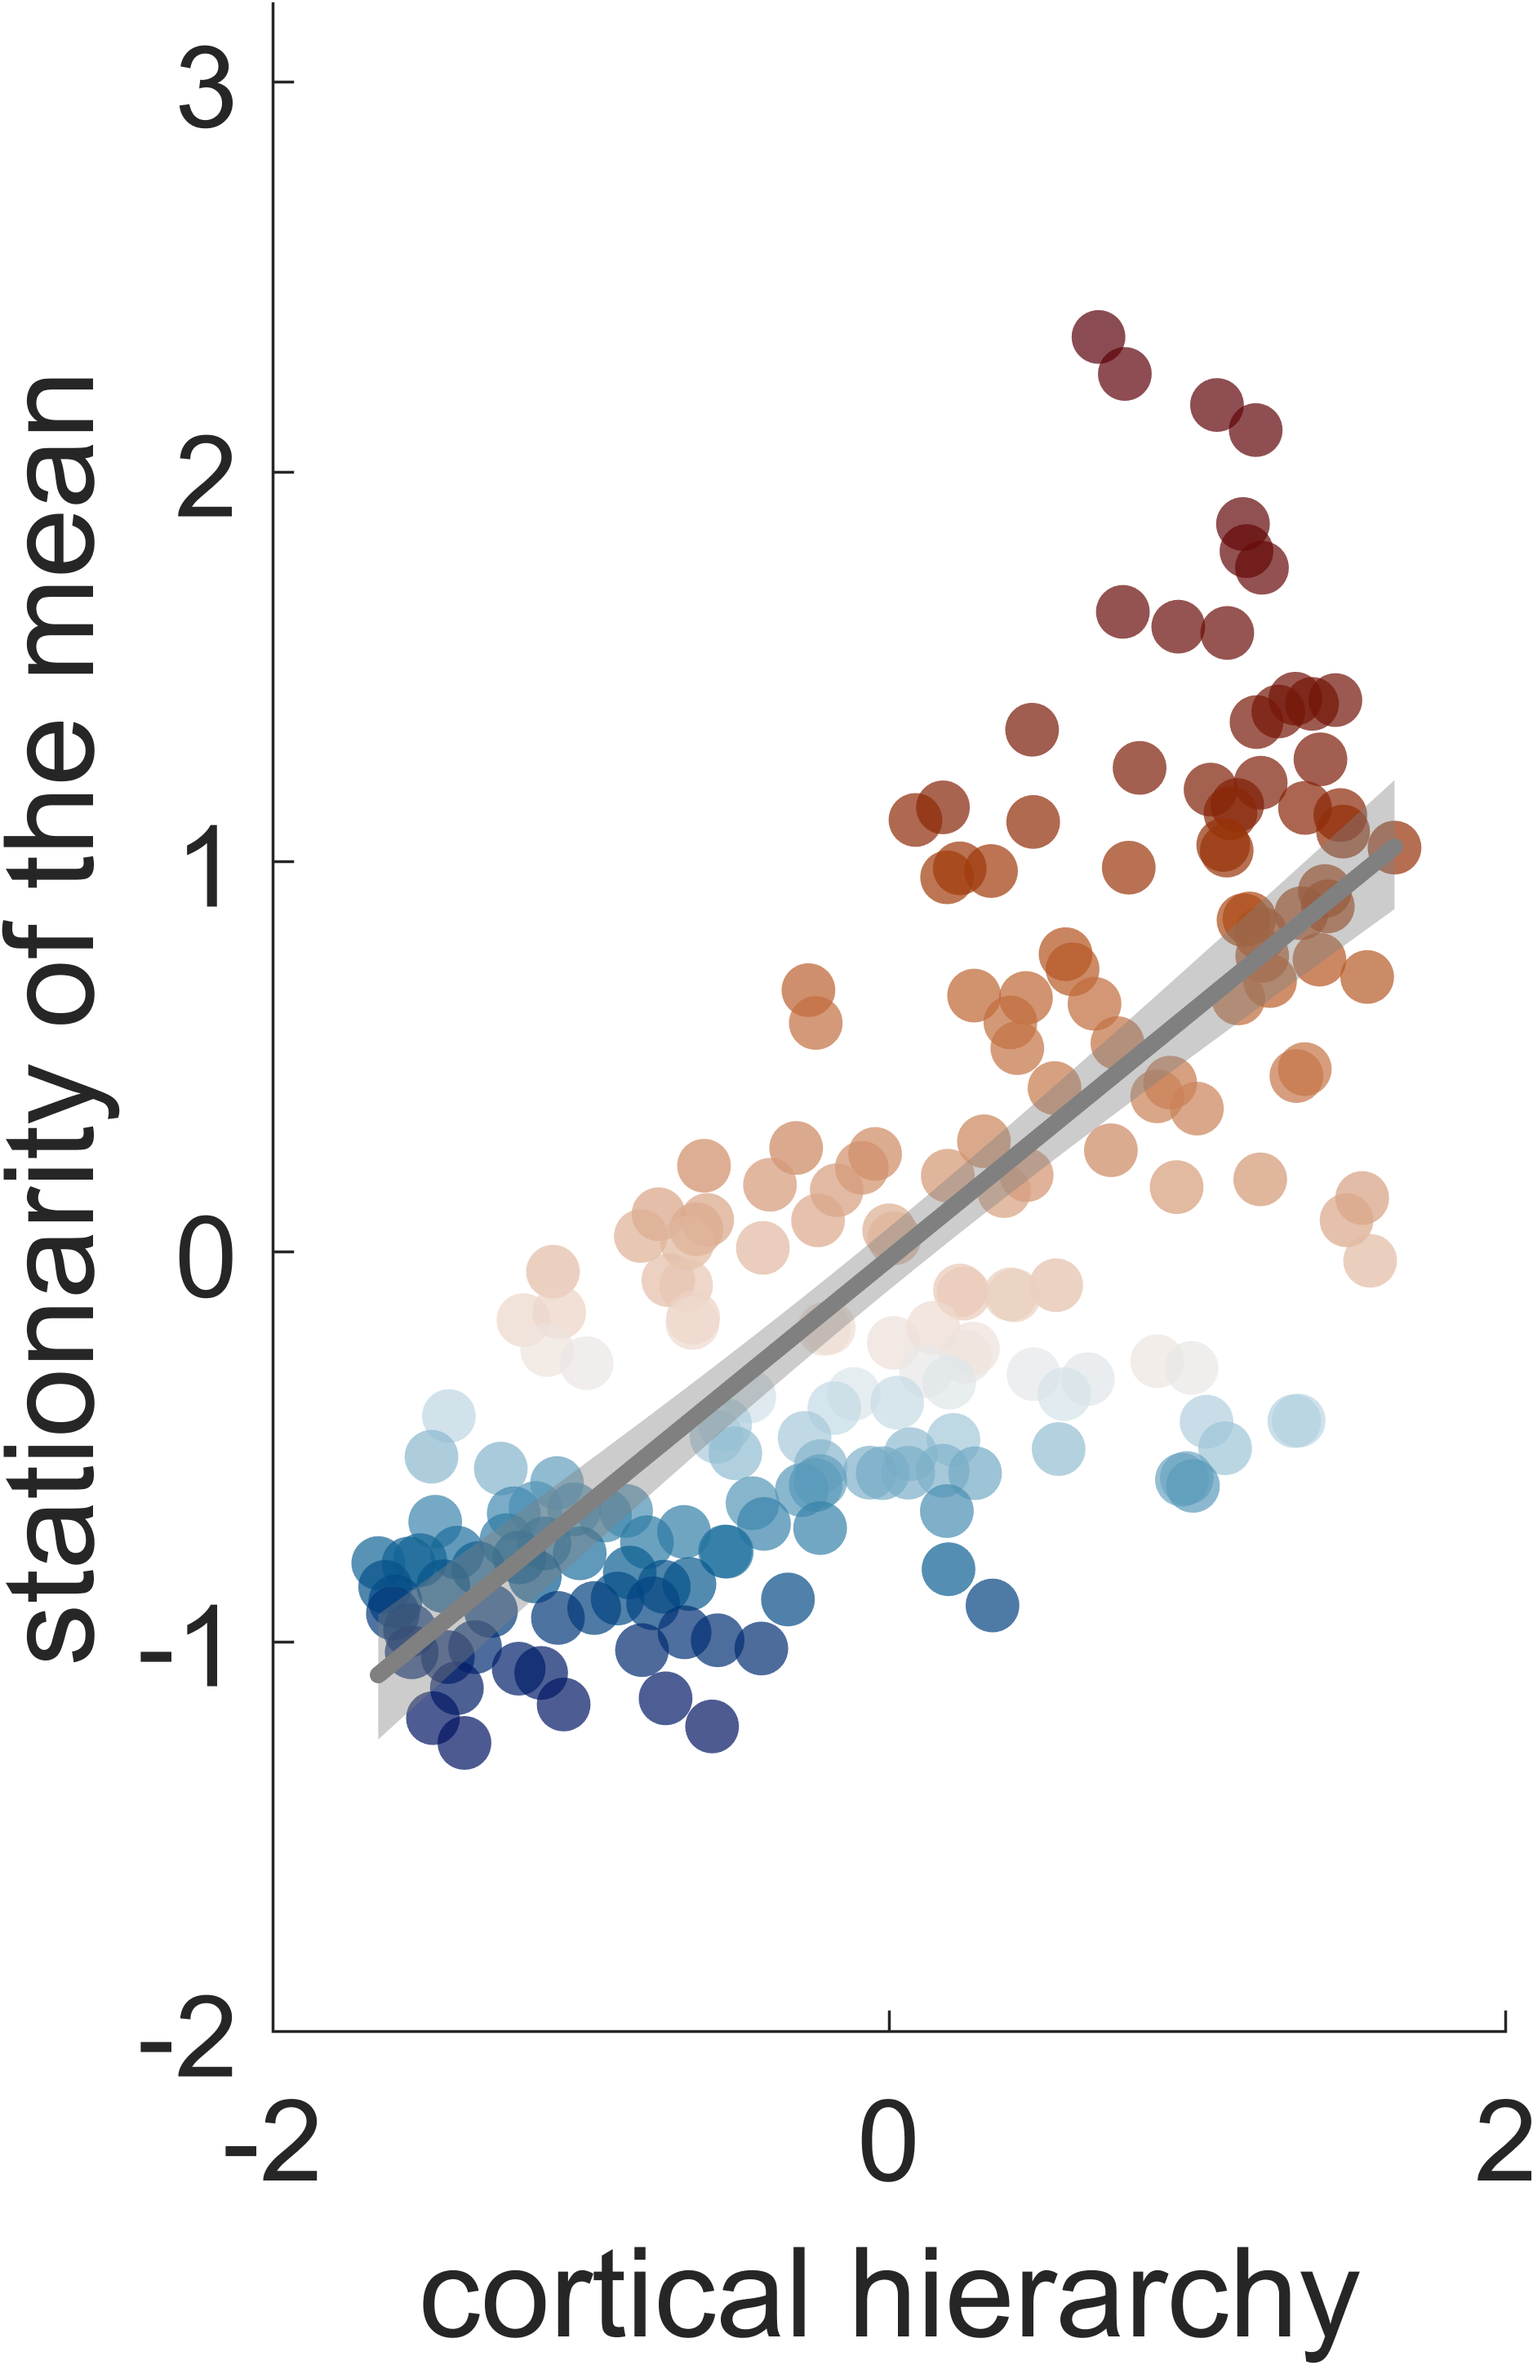
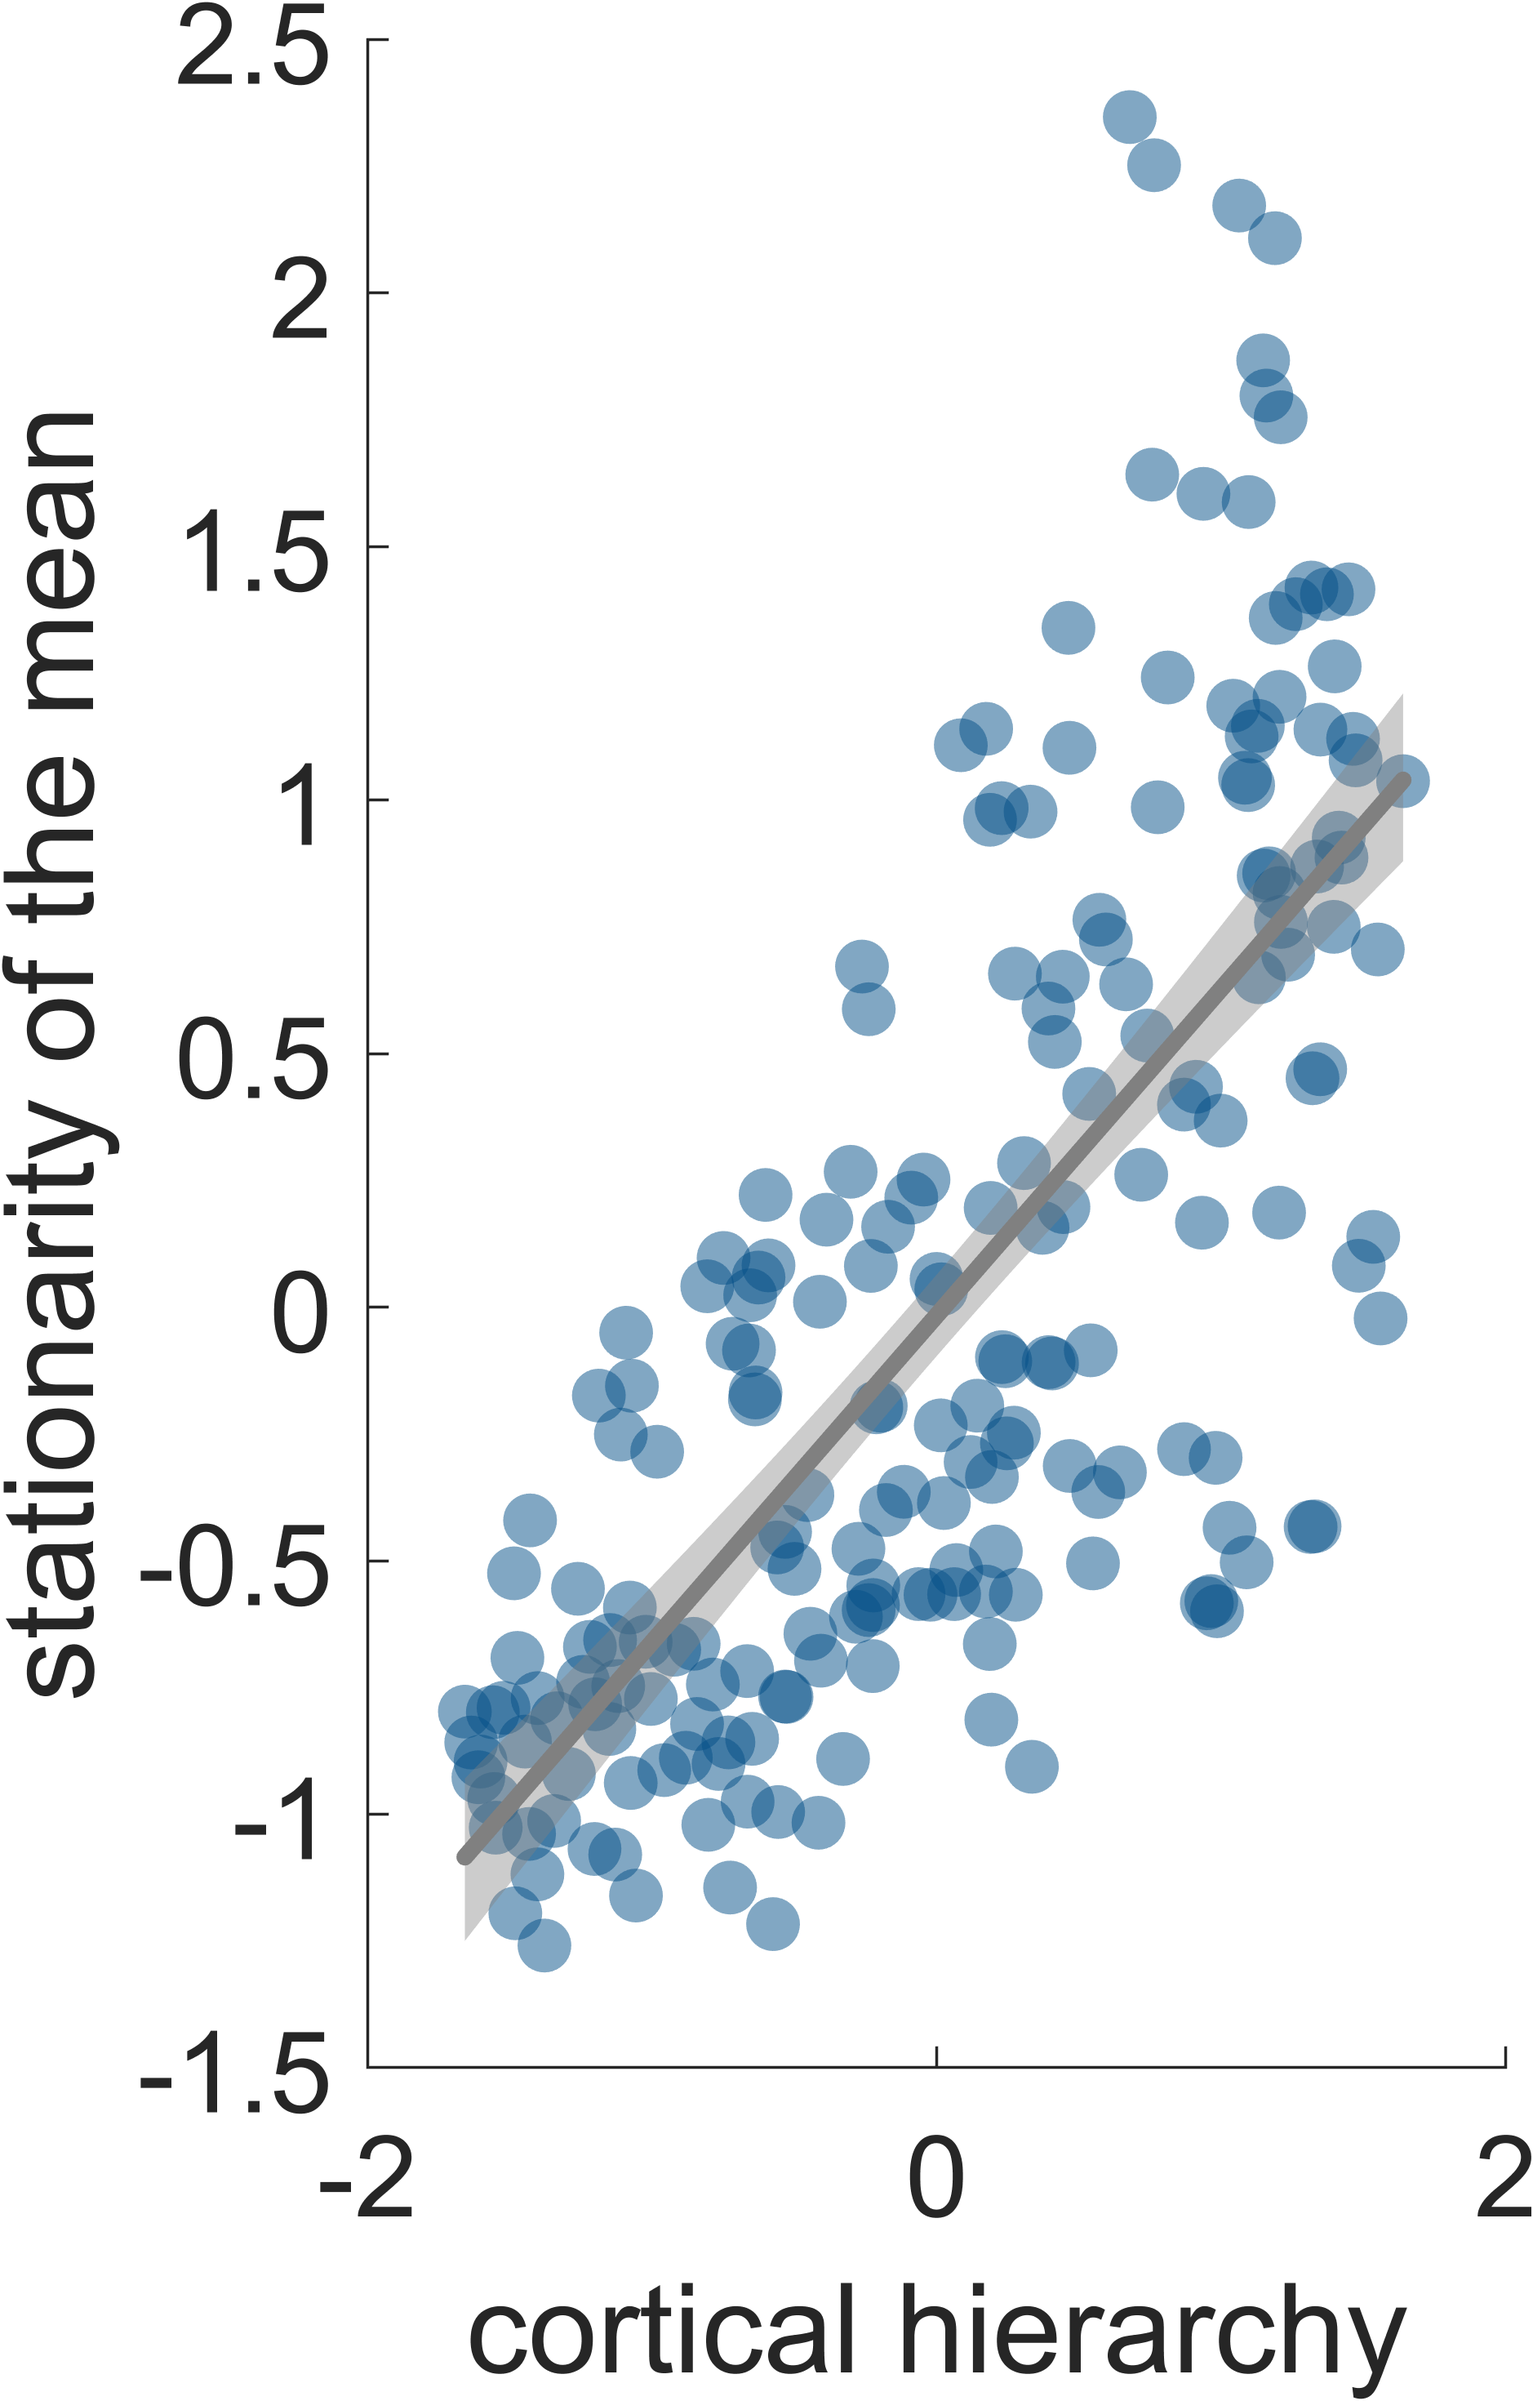
minor changes

diff --git a/PLOTTING FOR PAPER/Fig2d_scatter_linfit_and_topography_statavl.m b/PLOTTING FOR PAPER/Fig2d_scatter_linfit_and_topography_statavl.m
@@ -41,11 +41,10 @@ hierarchy_parc_sort = hierarchy_parc(idx);
 mat_avg_z_sort = mat_avg_z(idx);
 
 % find color vector indices
-idx_color = sort(randsample(256,200),'descend');
 
 f = lm_intercept+lm_slope*hierarchy_parc;
 figure('Color','w','Position',[1,1,400,600])
-scatter(hierarchy_parc_sort,mat_avg_z_sort,90,vik(idx_color,:),'filled','o','MarkerFaceAlpha',.7)
+scatter(hierarchy_parc_sort,mat_avg_z_sort,90,vik(40,:),'filled','o','MarkerFaceAlpha',.5)
 hold on
 plot(hierarchy_parc,f,'LineWidth',3,'Color',[0.5 0.5 0.5])
 fill(x,y,[0.5 0.5 0.5],'FaceAlpha',.4,'EdgeColor','none')
@@ -53,7 +52,7 @@ xlabel('cortical hierarchy','FontSize',16)
 ylabel('stationarity of the mean','FontSize',16)
 set(gca,'box','off') 
 set(gca,'FontSize',20)
-ylim([-2 3.2])
+ylim([-1.5 2.5])
 exportgraphics(gcf,[filepath '\PLOTS\Fig2d_scatter_linfit_statAvl100.png'],'Resolution',500)
 
 %% stats

diff --git a/PLOTTING FOR PAPER/Fig2e_scatter_linfit_and_topography_delta.m b/PLOTTING FOR PAPER/Fig2e_scatter_linfit_and_topography_delta.m
@@ -34,13 +34,10 @@ y = [CIY CIY(end:-1:1)+dist*2];
 hierarchy_parc_sort = hierarchy_parc(idx);
 delta_mean_sort = delta_mean(idx);
 
-% find color vector indices
-idx_color = sort(randsample(256,200),'descend');
-
 f = lm_intercept+lm_slope*hierarchy_parc;
 
 figure('Color','w','Position',[1,1,400,600])
-scatter(hierarchy_parc_sort,delta_mean_sort,90,vik(idx_color,:),'filled','o','MarkerFaceAlpha',.7)
+scatter(hierarchy_parc_sort,delta_mean_sort,90,vik(40,:),'filled','o','MarkerFaceAlpha',.5)
 hold on
 plot(hierarchy_parc,f,'LineWidth',3,'Color',[0.5 0.5 0.5])
 fill(x,y,[0.5 0.5 0.5],'FaceAlpha',.4,'EdgeColor','none')
